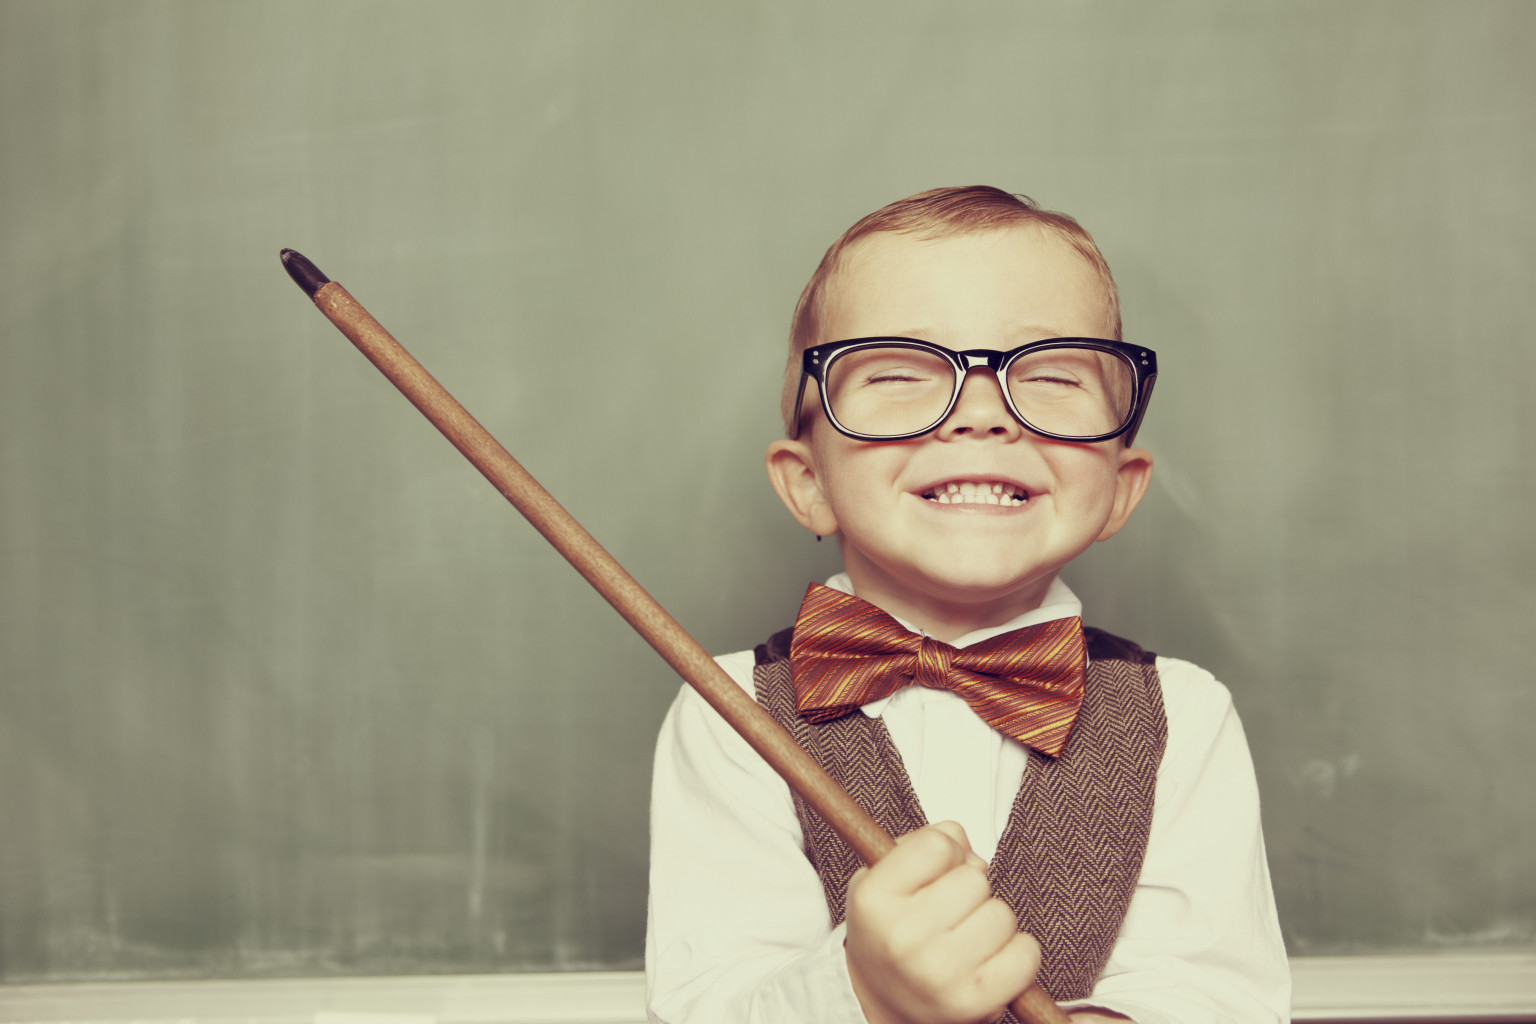
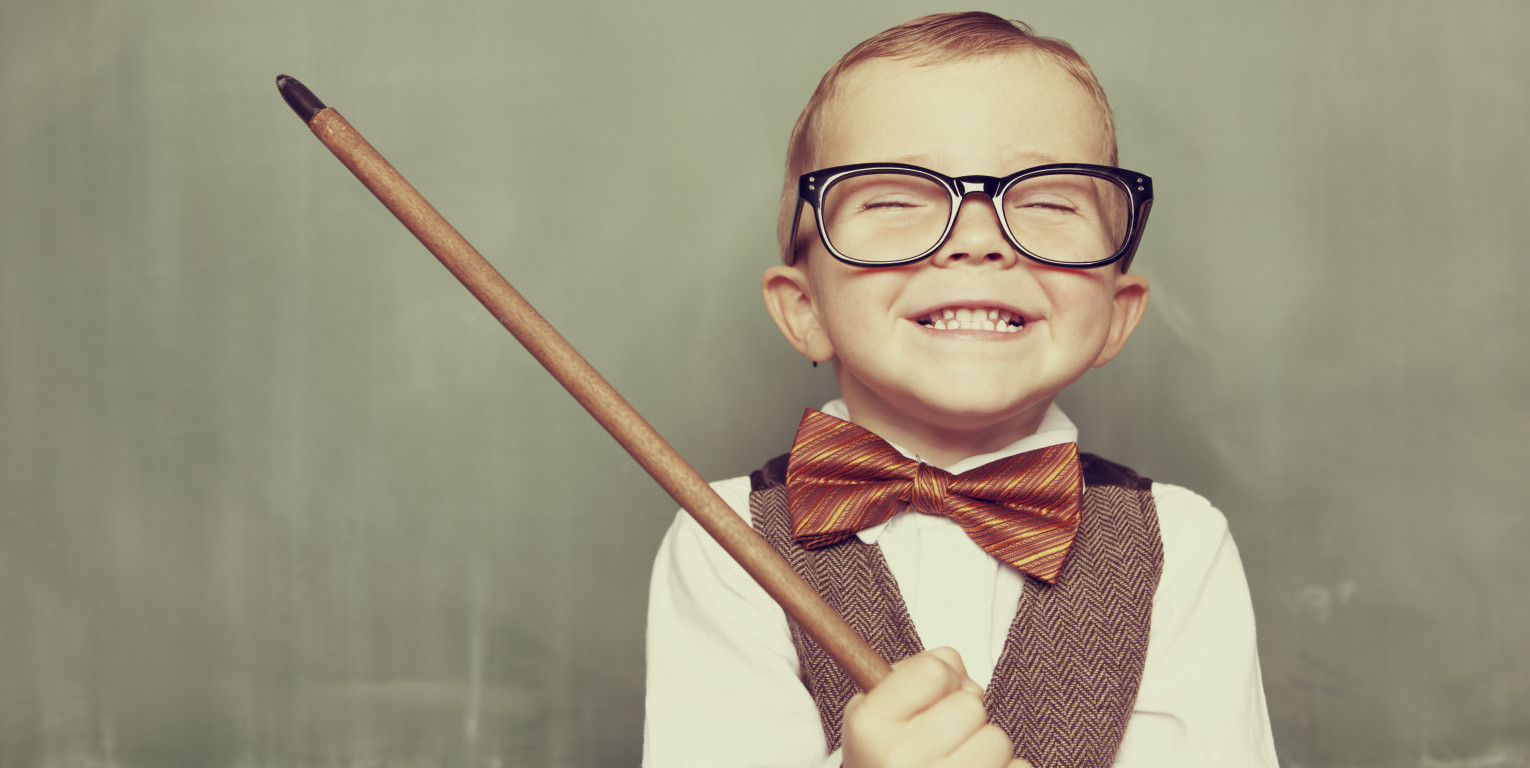
First pass at changes

diff --git a/src/components/routecontrollers/land/land.html b/src/components/routecontrollers/land/land.html
@@ -4,78 +4,93 @@
     <!--<h4 class="md-display-2" hide show-gt-sm>dashboards, reports, goals, analytics & alerts, all in one place</h4>-->
   </div>
 </div>
-<div class="even content-section section-two" layout="column" layout-align="space-between center">
-  <div layout layout-align="center center">
-    <h1 class="md-display-2">Making data-driven decision-making easy</h1>
-  </div>
-  <div class="consolidate-detail" layout-wrap layout="row" layout-align="center center">
-    <div flex="100" flex-gt-sm="33" layout layout-align="center center">
-      <div class="consolidate"></div>
-    </div>
-    <div flex="100" flex-gt-sm="66" layout="column" class="consolidate-explain align-center" layout-wrap="">
+<div class="slider">
+  <ul class="slides">
+    <li>
+      <div class="even content-section section-two slider-content" layout="column" layout-align="space-between center">
+        <div layout layout-align="center center">
+          <h1 class="md-display-2">Making data-driven decision-making easy</h1>
+        </div>
+        <div class="consolidate-detail" layout-wrap layout="row" layout-align="center center">
+          <div flex="100" flex-gt-sm="33" layout layout-align="center center">
+            <div class="consolidate"></div>
+          </div>
+          <div flex="100" flex-gt-sm="66" layout="column" class="consolidate-explain align-center" layout-wrap="">
       <span class="md-headline">EdPanel synchronizes data from student information systems, behavior management systems,
         state exams, and other sources and puts that data at your fingertips with easy-to-use reports,
         visualizations, and decision-support tools. EdPanel is easy to customize, so you can focus your
         attention on the student data that can help you meet your school’s educational goals.</span>
-    </div>
-  </div>
-</div>
-<div class="content-section section-three" layout="column" layout-align="space-around center">
-    <h1 class="md-display-2">For all stakeholders</h1>
-    <div class="face-container" layout="row" layout-wrap layout-align="center center">
-      <div layout="column">
-        <div class="face-circle" layout="row" layout-align="center center">
-          <div class="face student"></div>
+          </div>
         </div>
-        <div class="md-title">students</div>
       </div>
-      <div layout="column">
-        <div class="face-circle" layout="row" layout-align="center center">
-          <div class="face teacher"></div>
+    </li>
+    <li>
+      <div class="content-section section-three slider-content" layout="column" layout-align="space-around center">
+        <h1 class="md-display-2">For all stakeholders</h1>
+        <div class="face-container" layout="row" layout-wrap layout-align="center center">
+          <div layout="column">
+            <div class="face-circle" layout="row" layout-align="center center">
+              <div class="face student"></div>
+            </div>
+            <div class="md-title">students</div>
+          </div>
+          <div layout="column">
+            <div class="face-circle" layout="row" layout-align="center center">
+              <div class="face teacher"></div>
+            </div>
+            <div class="md-title">teachers</div>
+          </div>
+          <div layout="column">
+            <div class="face-circle" layout="row" layout-align="center center">
+              <div class="face admin"></div>
+            </div>
+            <div class="md-title">admins</div>
+          </div>
+          <div layout="column">
+            <div class="face-circle" layout="row" layout-align="center center">
+              <div class="face parent"></div>
+            </div>
+            <div class="md-title">parents</div>
+          </div>
+          <div flex="100" layout layout-wrap layout-align="center center"><div class="md-headline" style="max-width:750px;margin-top:50px;margin-bottom:50px;">Unlocking the data within schools, EdPanel offers a differentiated and customizable user experience focused on the needs of each stakeholder</div></div>
         </div>
-        <div class="md-title">teachers</div>
       </div>
-      <div layout="column">
-        <div class="face-circle" layout="row" layout-align="center center">
-          <div class="face admin"></div>
-        </div>
-        <div class="md-title">admins</div>
-      </div>
-      <div layout="column">
-        <div class="face-circle" layout="row" layout-align="center center">
-          <div class="face parent"></div>
-        </div>
-        <div class="md-title">parents</div>
-      </div>
-      <div flex="100" layout layout-wrap layout-align="center center"><div class="md-headline" style="max-width:750px;margin-top:50px;margin-bottom:50px;">Unlocking the data within schools, EdPanel offers a differentiated and customizable user experience focused on the needs of each stakeholder</div></div>
-    </div>
-</div>
-<div class="even content-section section-three" layout-wrap layout="row" layout-align="center stretch">
-  <div class="margin-wrapper" flex="100" flex-gt-sm="50" layout="column" layout-align="center center">
-    <h1 class="md-display-2">Making every school data-driven</h1>
-    <div flex layout layout-align="center center">
-      <div flex="100" layout layout-wrap layout-align="center center"><span class="md-headline goals-description">
+    </li>
+    <li>
+      <div class="even content-section section-three slider-content" layout-wrap layout="row" layout-align="center stretch">
+        <div class="margin-wrapper" flex="100" flex-gt-sm="50" layout="column" layout-align="center center">
+          <h1 class="md-display-2">Making every school data-driven</h1>
+          <div flex layout layout-align="center center">
+            <div flex="100" layout layout-wrap layout-align="center center"><span class="md-headline goals-description">
         By giving educators the right information at the right time with support for in-product praise and goal setting,
         EdPanel makes teachers and administrators more effective, and more efficient, in their daily interactions with
         students.</span></div>
-    </div>
-  </div>
-  <div flex="100" flex-gt-sm="50" class="section-overview"></div>
+          </div>
+        </div>
+        <div flex="100" flex-gt-sm="50" class="section-overview"></div>
+      </div>
+    </li>
+    <li>
+      <div class="content-section section-three performance-over-time slider-content" layout="column" layout-align="center center">
+        <div class="trends-over-time" layout="column" layout-align="space-between center">
+          <h1 class="md-display-2">Helping students learn how to succeed</h1>
+          <div class="md-headline" style="max-width:950px; padding-bottom:50px;">Students get a dashboard that
+            shows how they are doing across all the measures the school deems important.
+            Students can set goals, receive praise and feedback, see how they are progressing, and consult with teachers
+            or advisors to make adjustments to stay on track.</div>
+        </div>
+      </div>
+    </li>
+    <li>
+      <div class="even content-section section-four slider-content" layout-wrap layout="row" layout-align="center stretch">
+        <div flex="0" flex-gt-sm="30" class="school-histogram"></div>
+        <div flex="100" flex-gt-sm="60" layout="column" layout-align="center center">
+          <h1 class="md-display-2">Simple to use, deeply customizable</h1>
+          <span class="md-headline margin-wrapper">EdPanel comes ready to use, but also supports powerful customization and configuration options so users can get what they need from their data without additional integrations</span>
+        </div>
+      </div>
+    </li>
+  </ul>
 </div>
-<div class="content-section section-three performance-over-time" layout="column" layout-align="center center">
-  <div class="trends-over-time" layout="column" layout-align="space-between center">
-    <h1 class="md-display-2">Helping students learn how to succeed</h1>
-    <div class="md-headline" style="max-width:950px; padding-bottom:50px;">Students get a dashboard that
-      shows how they are doing across all the measures the school deems important.
-      Students can set goals, receive praise and feedback, see how they are progressing, and consult with teachers
-      or advisors to make adjustments to stay on track.</div>
-  </div>
-</div>
-<div class="even content-section section-four" layout-wrap layout="row" layout-align="center stretch">
-  <div flex="0" flex-gt-sm="30" class="school-histogram"></div>
-  <div flex="100" flex-gt-sm="60" layout="column" layout-align="center center">
-    <h1 class="md-display-2">Simple to use, deeply customizable</h1>
-    <span class="md-headline margin-wrapper">EdPanel comes ready to use, but also supports powerful customization and configuration options so users can get what they need from their data without additional integrations</span>
-  </div>
-</div>
+
 <edpanelfooter></edpanelfooter>

diff --git a/src/index.html b/src/index.html
@@ -14,6 +14,7 @@
     <!-- bower:css -->
     <link rel="stylesheet" href="../bower_components/angular-material/angular-material.css" />
     <link rel="stylesheet" href="../bower_components/c3/c3.css" />
+    <link rel="stylesheet" href="../bower_components/materialize/bin/materialize.css" />
     <!-- endbower -->
     <!-- endbuild -->
 
@@ -57,16 +58,17 @@
     <script src="../bower_components/angular-ui-router/release/angular-ui-router.js"></script>
     <script src="../bower_components/d3/d3.js"></script>
     <script src="../bower_components/c3/c3.js"></script>
+    <script src="../bower_components/materialize/bin/materialize.js"></script>
     <!-- endbower -->
     <!-- endbuild -->
     <!-- build:js({.tmp,src}) scripts/app.js -->
     <!-- inject:js -->
     <script src="/app/index.js"></script>
+    <script src="/components/directives/footer/edpanelfooter.js"></script>
     <script src="/components/routecontrollers/root/root.js"></script>
     <script src="/components/routecontrollers/privacy/privacy.js"></script>
     <script src="/components/routecontrollers/land/land.controller.js"></script>
     <script src="/components/routecontrollers/about/about.js"></script>
-    <script src="/components/directives/footer/edpanelfooter.js"></script>
     <script src="/components/services/api.js"></script>
     <!-- endinject -->
     <!-- inject:partials -->

diff --git a/src/components/routecontrollers/land/land.controller.js b/src/components/routecontrollers/land/land.controller.js
@@ -19,7 +19,14 @@ angular.module('edpanel')
   })
   .controller('LandCtrl', ['$scope', 'api', '$state', '$window', '$location',
     function ($scope, api, $state, $window, $location) {
+        $scope.image = [{
+            src: "../../../assets/images/CaseOne.jpg"
+        }];
+        $(document).ready(function(){
+            $('.slider').slider({full_width: true});
+        });
       $scope.$on('$viewContentLoaded', function() {
         $window.ga('send', 'pageview', { page: $location.url() });
+
       });
   }]);

diff --git a/src/app/index.scss b/src/app/index.scss
@@ -22,9 +22,9 @@ $small-font-gray: #666666;
   color: $small-font-gray;
 }
 // injector
-@import '../components/directives/footer/edpanelfooter.scss';
 @import '../components/routecontrollers/about/about.scss';
 @import '../components/routecontrollers/land/land.scss';
 @import '../components/routecontrollers/privacy/privacy.scss';
+@import '../components/directives/footer/edpanelfooter.scss';
 @import '../components/routecontrollers/root/root.scss';
 // endinjector
